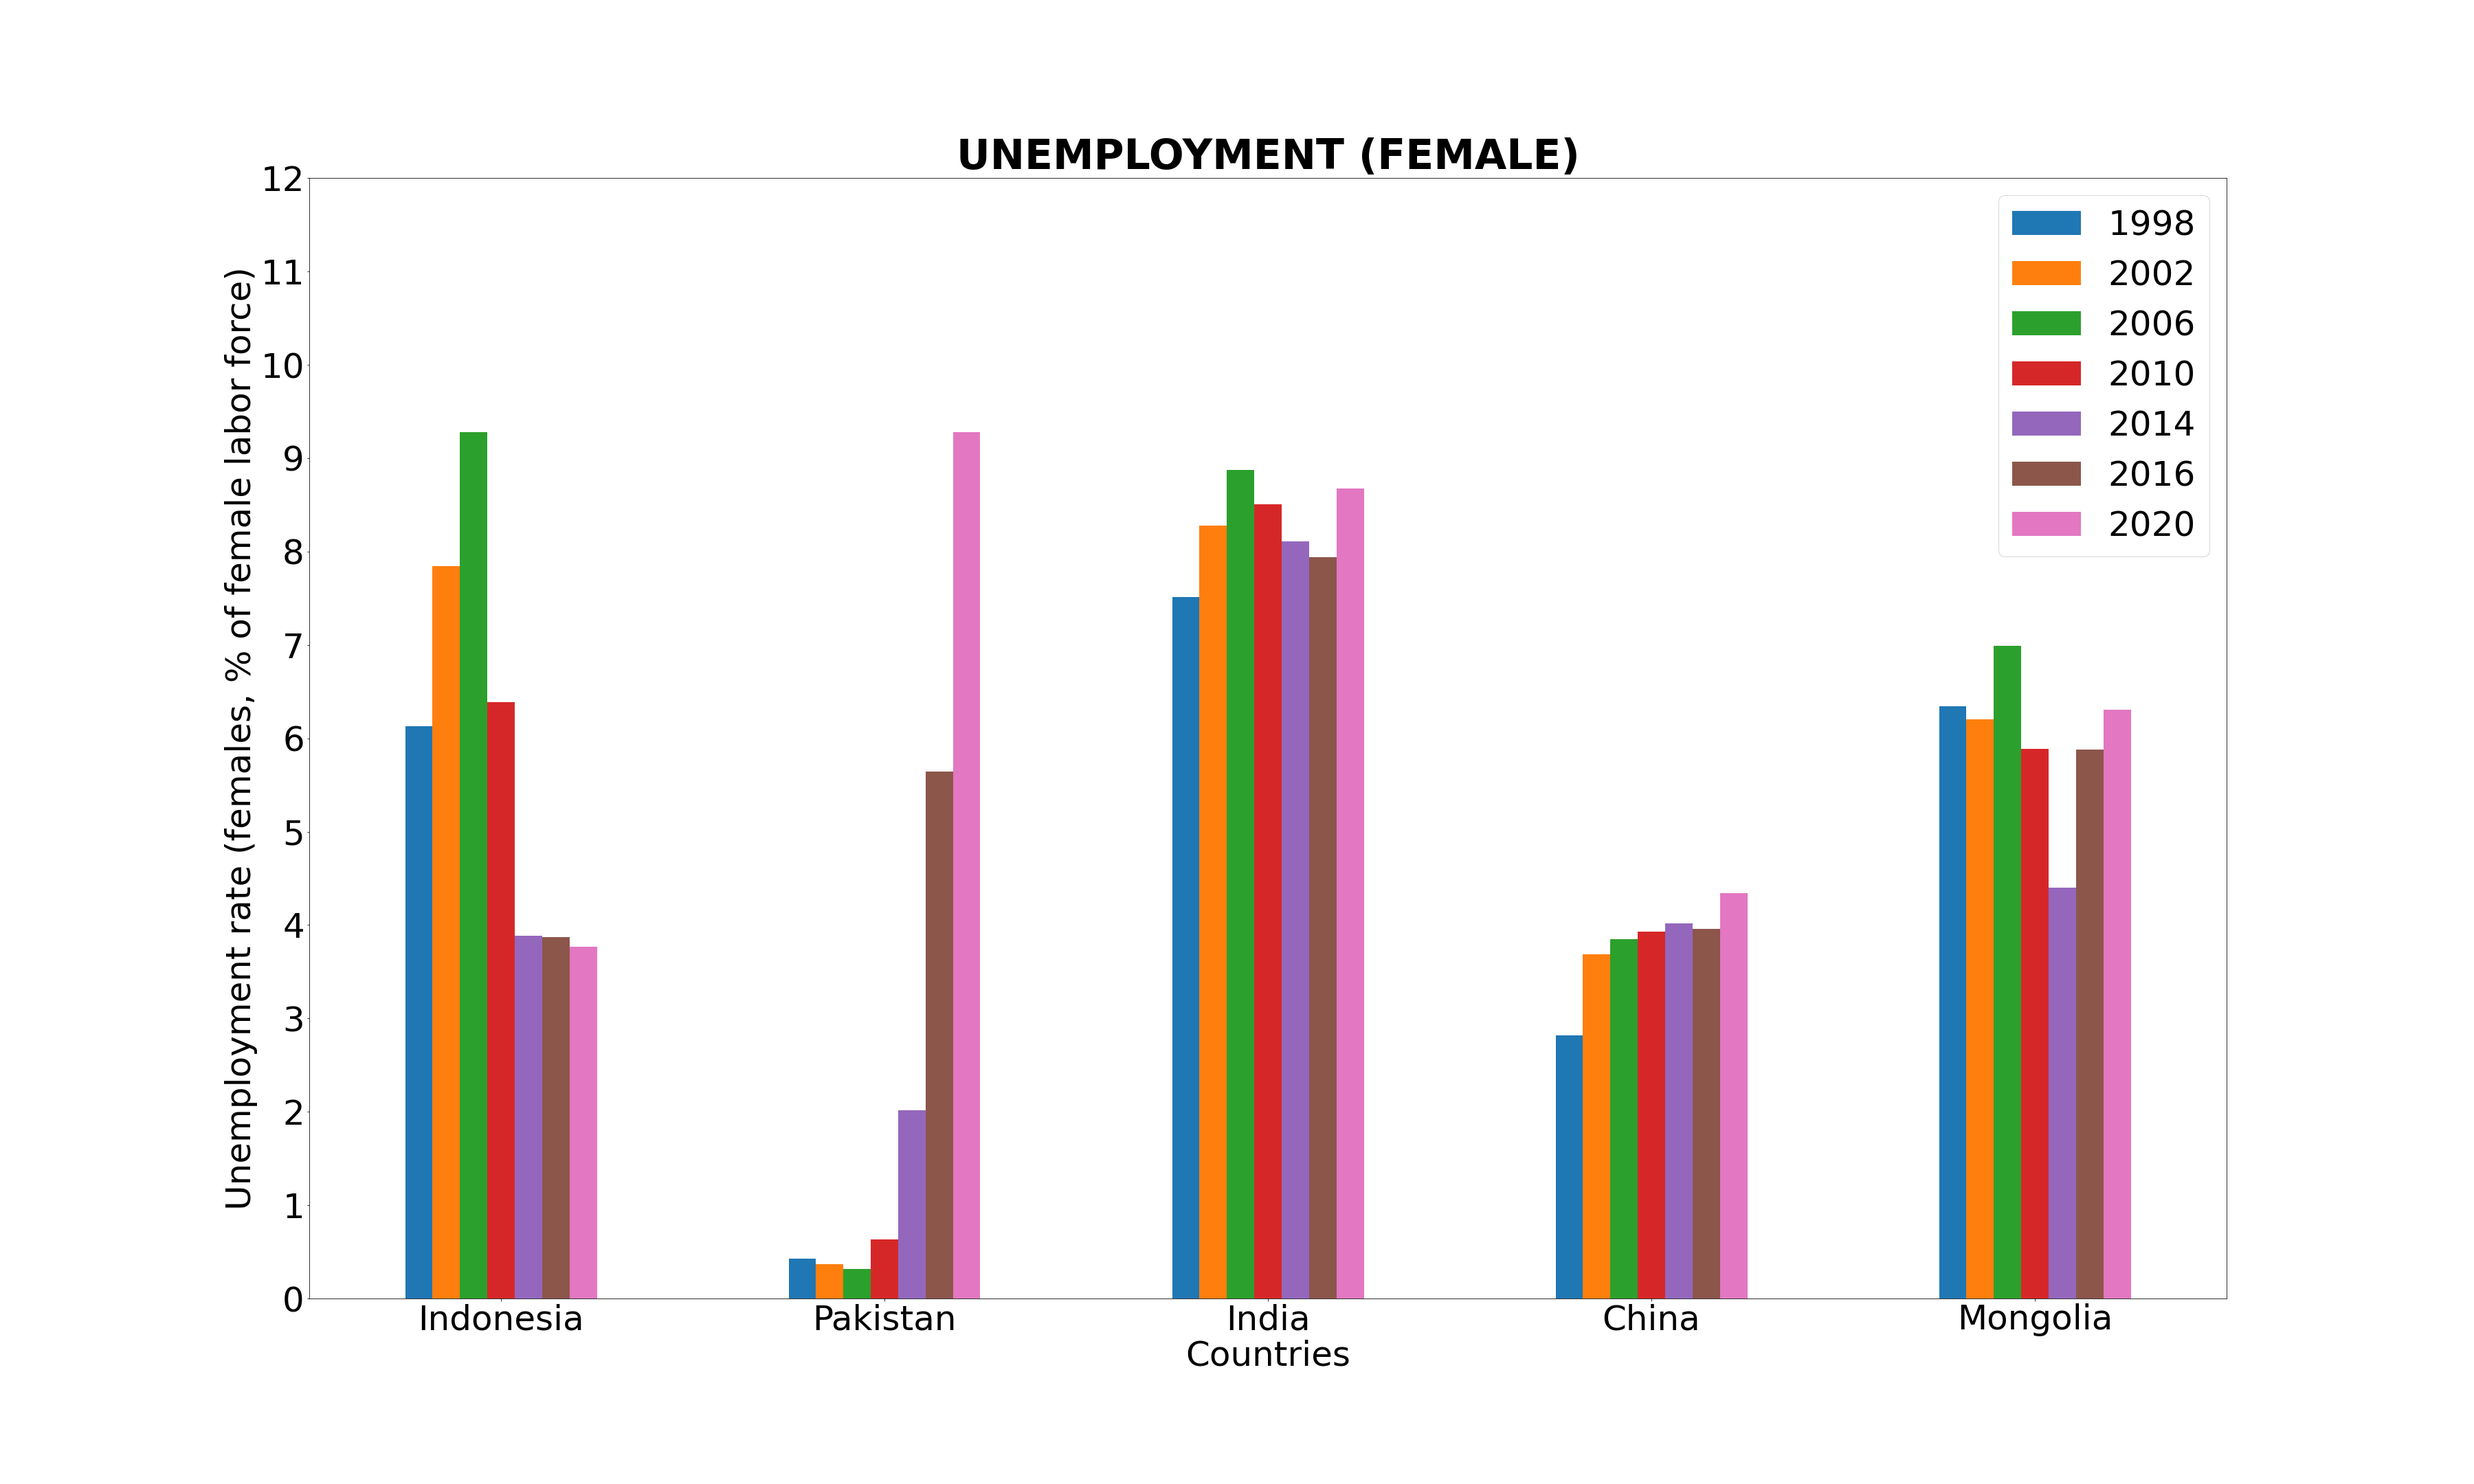
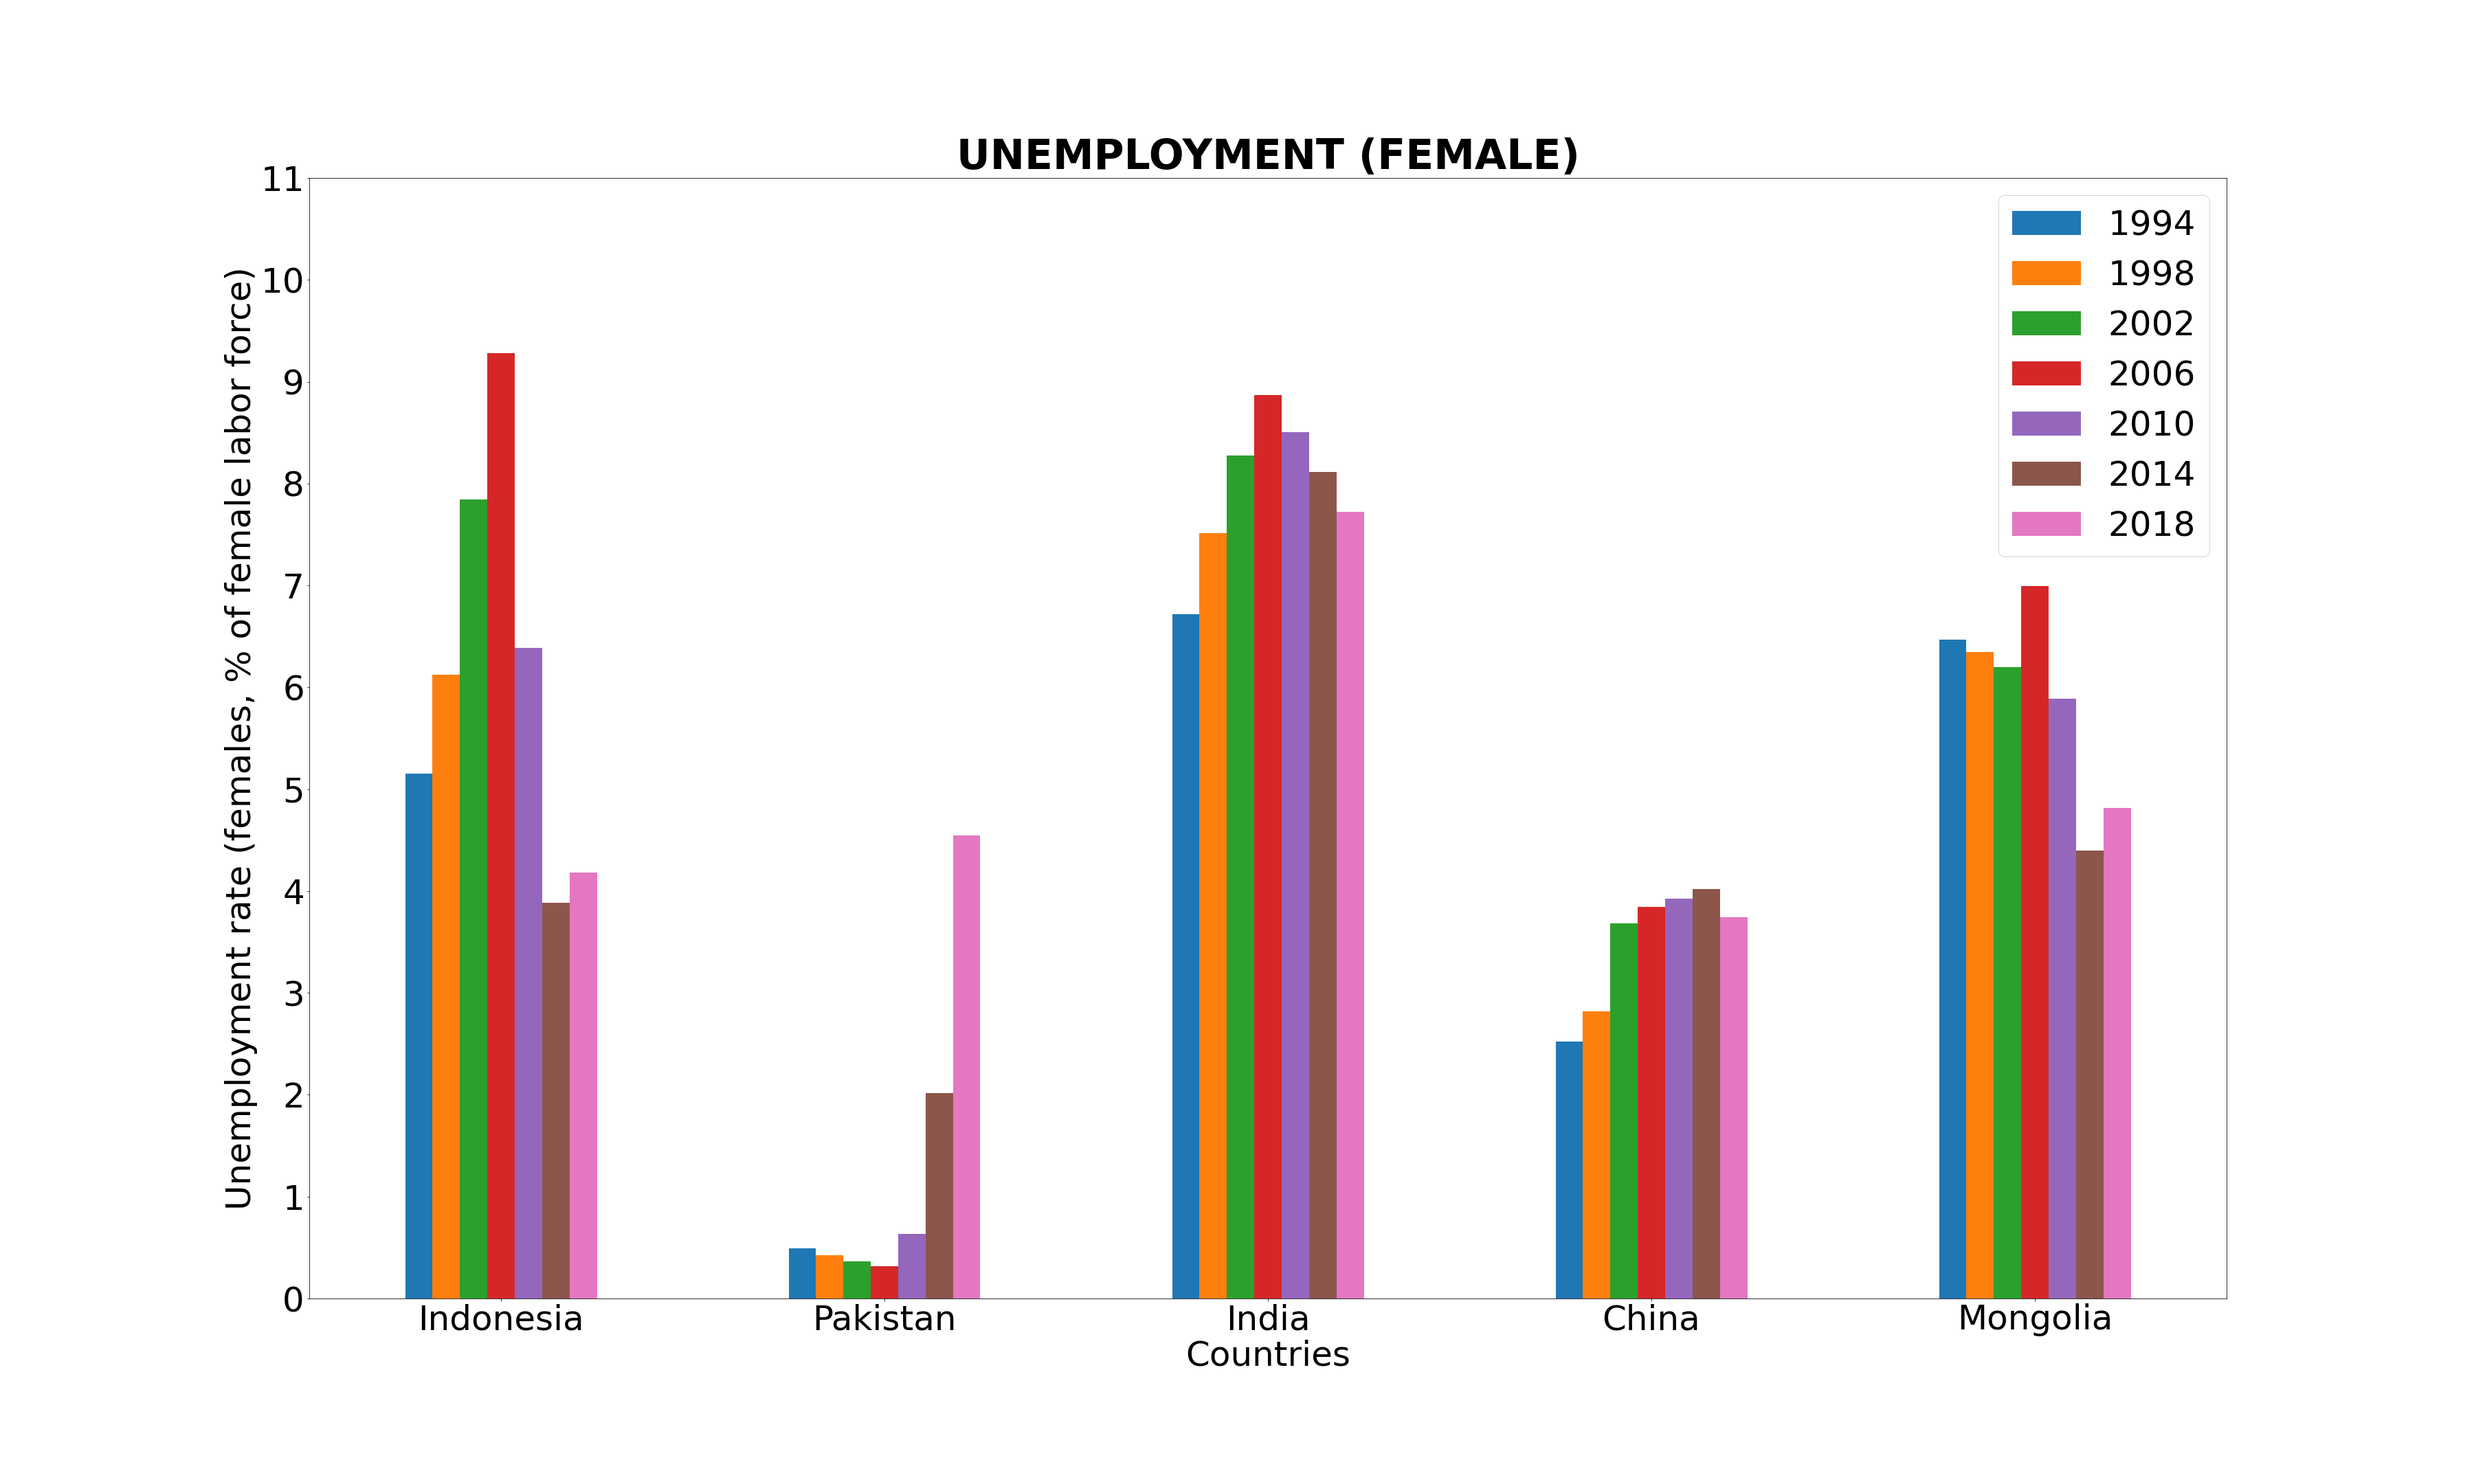
Add files via upload
Added code for line plot

diff --git a/Statistics and Trends_Code.py b/Statistics and Trends_Code.py
@@ -64,35 +64,63 @@ def filter_data(data_r, col_name,  col_val, contries, years):
     return data_filter, data_filter_trans
 
 
-def bar_plot(f_data, title_name, x_lab, y_lab):
+def bar_plot(f_data_b, title_name_b, x_lab_b, y_lab_b):
     '''
     This function is used for bar plotting
 
     Parameters
     ----------
-    f_data : The filtered dataset for plotting
-    title_name : The title of the bar plot
+    f_data : The filtered dataset for bar plotting
+    title_name : Title of the bar plot
     x_lab : x-label
     y_lab : y-label
 
     '''
 
-    bx = f_data.plot.bar(x='Country Name', rot=0,
+    bx = f_data_b.plot.bar(x='Country Name', rot=0,
                          figsize=(50, 30), fontsize=50)
     # Setting yticks
-    bx.set_yticks([0, 1, 2, 3, 4, 5, 6, 7, 8, 9, 10, 11, 12])
+    bx.set_yticks([0, 1, 2, 3, 4, 5, 6, 7, 8, 9, 10,11])
     # Setting the title for the plot
-    bx.set_title(title_name.upper(), fontsize=60, fontweight='bold')
+    bx.set_title(title_name_b.upper(), fontsize=60, fontweight='bold')
     # Setting the x-label for the plot
-    bx.set_xlabel(x_lab, fontsize=50)
+    bx.set_xlabel(x_lab_b, fontsize=50)
     # Setting the y-label for the plot
-    bx.set_ylabel(y_lab, fontsize=50)
+    bx.set_ylabel(y_lab_b, fontsize=50)
     bx.legend(fontsize=50)
-    plt.savefig(title_name + '.png')
+    plt.savefig(title_name_b + '.png')
     plt.show()
     # Return statement is used at the end of a function
     return
 
+
+def line_plot(f_data_l, title_name_l, x_lab_l, y_lab_l):
+    '''
+    This function is used for line plotting
+
+    Parameters
+    ----------
+    f_data_l : The filtered dataset for line plotting
+    title_name_l : Title of the line plot
+    x_lab_l : x-label
+    y_lab_l : y-label
+    
+    '''
+    
+    lx = f_data_l.plot.line(figsize=(50,30), fontsize=36, linewidth=7.0)
+    # Setting yticks
+    lx.set_yticks([50, 55, 60, 65, 70, 75, 80, 85, 90])
+    # Setting the title for the plot
+    lx.set_title(title_name_l.upper(), fontsize=60, fontweight='bold')
+    # Setting the x-label for the plot
+    lx.set_xlabel(x_lab_l,fontsize=50)
+    # Setting the y-label for the plot
+    lx.set_ylabel(y_lab_l, fontsize=50)
+    lx.legend(fontsize=50)
+    plt.savefig(title_name_l + '.png')
+    plt.show()
+    # Return statement is used at the end of a function
+    return
 
 # Calling the function for reading data and assigning it in a variable
 dataset = data_reading("Gender_Equality.csv")
@@ -101,7 +129,7 @@ dataset = data_reading("Gender_Equality.csv")
 # List of countries for bar plotting
 countries_bar = ['Indonesia', 'Pakistan', 'India', 'China', 'Mongolia']
 # List of years for bar plotting
-year_bar = ['1998', '2002', '2006', '2010', '2014', '2016', '2020']
+year_bar = ['1994', '1998', '2002', '2006', '2010', '2014', '2018']
 # Calling the data filtering function for 1st bar plot and assinging its values in variables
 data_bar1, data_bar1_t = filter_data(
     dataset, 'Indicator Name', 'Unemployment, male (% of male labor force) (modeled ILO estimate)', countries_bar, year_bar)
@@ -123,3 +151,28 @@ print(data_bar2_t)
 # Calling the function for 2nd bar plotting
 bar_plot(data_bar2, 'Unemployment (female)',
          'Countries', 'Unemployment rate (females, % of female labor force)')
+
+
+# List of countries for line plotting
+countries_line= ['Japan', 'Iraq', 'Kuwait', 'Afghanistan', 'Philippines']
+# List of years for line plotting
+year_line = ['1995', '1998', '2001', '2004', '2007', '2010', '2013', '2016', '2019']
+# Calling the data filtering function for 1st line plot and assinging its values in variables
+data_line1, data_line1_t = filter_data(dataset, 'Indicator Name','Life expectancy at birth, male (years)', countries_line, year_line)
+# Printing the dataset with years as columns
+print(data_line1)
+# Printing the transposed dataset with countries as columns
+print(data_line1_t)
+# Calling the function for 2nd line plotting
+line_plot(data_line1_t, 'Life expectancy at birth (male)', 'Year', 'Life expectancy at birth, male (years)')
+
+
+# Calling the data filtering function for 2nd line plot and assinging its values in variables
+data_line2, data_line2_t = filter_data(dataset, 'Indicator Name','Life expectancy at birth, female (years)', countries_line, year_line)
+# Printing the dataset with years as columns
+print(data_line2)
+# Printing the transposed dataset with countries as columns
+print(data_line2_t)
+# Calling the function for 2nd line plotting
+line_plot(data_line2_t, 'Life expectancy at birth (female)', 'Year', 'Life expectancy at birth, female (years)')
+
